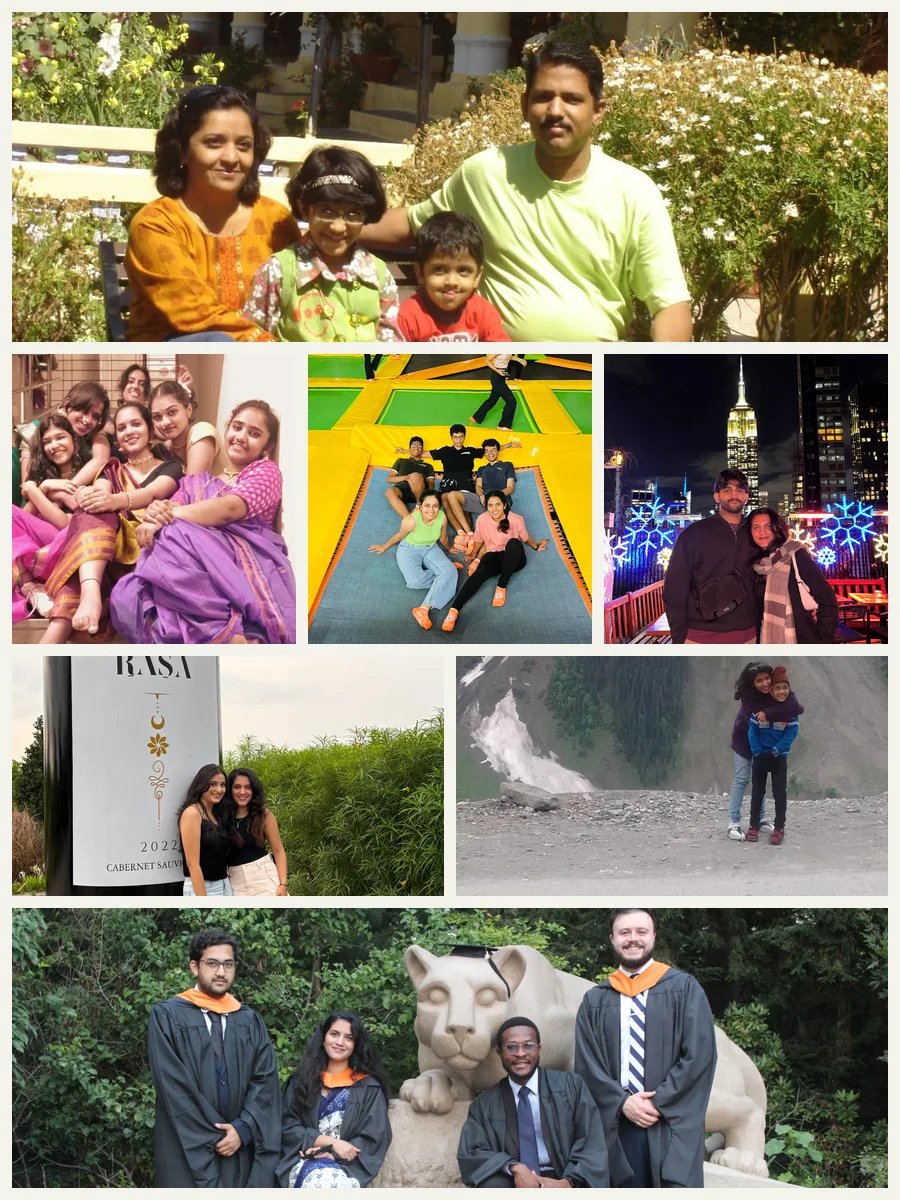
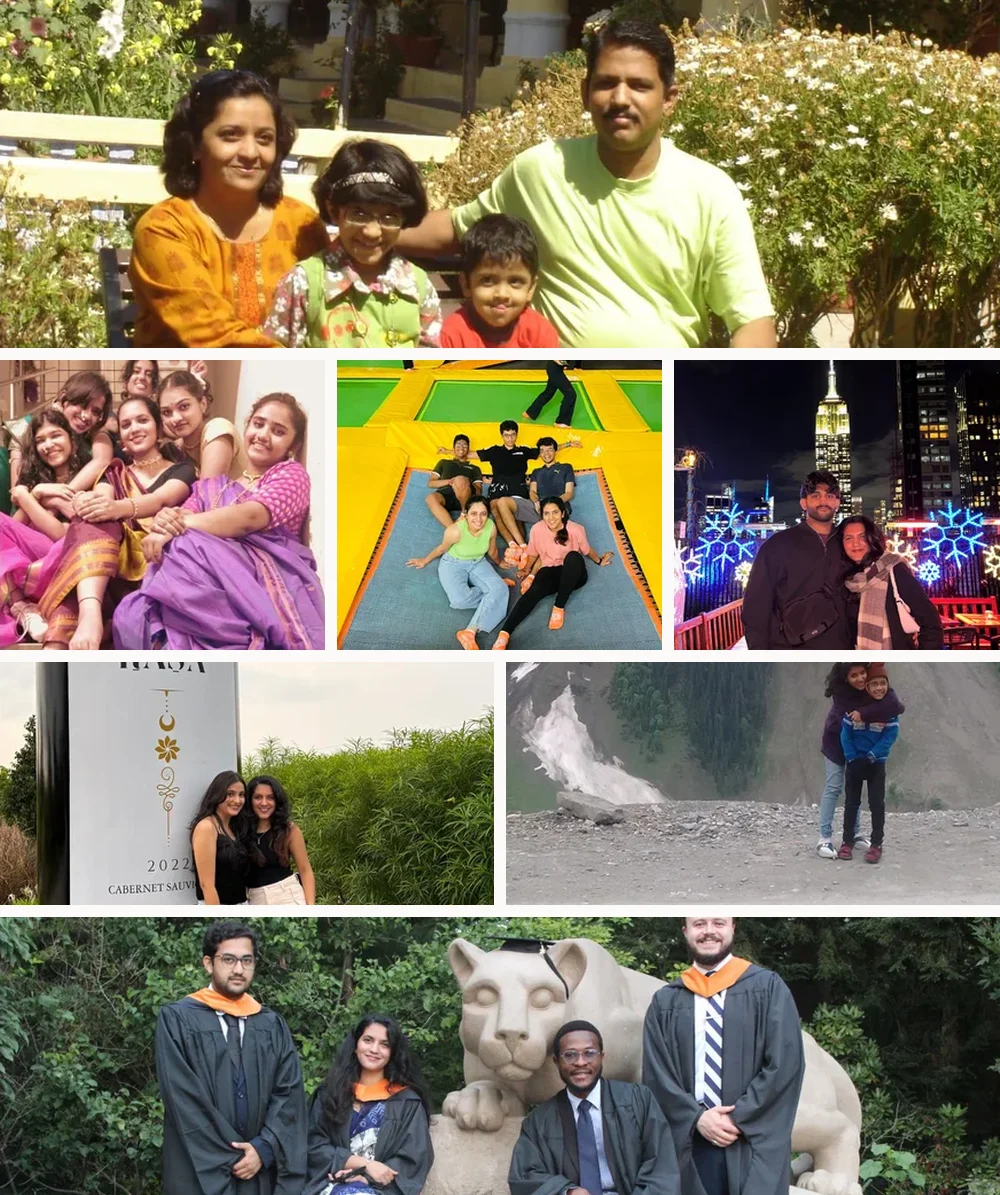
Skill bubbles: balanced arc, connector lines, consistent pills; neat village collage; zoomed-out dance photo
Claude-Session: https://claude.ai/code/session_01WcbvhFMLkJFsvgnNpnBruP

diff --git a/assets/js/main.js b/assets/js/main.js
@@ -1668,33 +1668,47 @@ $$("[data-href]").forEach((el) => {
   const roles = [...document.querySelectorAll(".roles .role")];
   if (!strip || !roles.length) return;
   const rnd = (a, b) => a + Math.random() * (b - a);
+  const NS = "http://www.w3.org/2000/svg";
   const layout = (li) => {
     const pops = [...li.querySelectorAll(".pop")];
-    pops.forEach((p) => p.style.setProperty("--fs", rnd(11, 13.5).toFixed(1) + "px"));
     const lr = li.getBoundingClientRect(), wr = li.querySelector(".rn").getBoundingClientRect();
+    const vw = document.documentElement.clientWidth;
     const cx = lr.left + lr.width / 2, cy = lr.top + lr.height / 2, half = lr.height / 2;
-    const word = { l: wr.left - cx - 6, r: wr.right - cx + 6, t: wr.top - cy - 4, b: wr.bottom - cy + 4 };
-    const placed = [];
+    const word = { l: wr.left - cx, r: wr.right - cx, t: wr.top - cy, b: wr.bottom - cy };
+    const n = pops.length, nTop = Math.ceil(n / 2), placed = [];
+    const maxW = Math.max(...pops.map((p) => p.offsetWidth + 14));
+    const spanX = Math.min(Math.max(wr.width * .62, 150), Math.max(30, (vw - 24 - maxW) / 2));
     pops.forEach((p, i) => {
-      const w = p.offsetWidth + 16, h = p.offsetHeight + 12;
-      let best = null;
-      for (let t = 0; t < 200 && !best; t++) {
-        const k = 1 + t / 70, up = i % 2 === 0;
-        const x = rnd(-(wr.width / 2 + w * .2) * k, (wr.width / 2 + w * .2) * k);
-        const y = (up ? -1 : 1) * rnd(half * .45 + h / 2, half + h / 2 + 6 + 18 * (k - 1));
-        const L = x - w / 2, R = x + w / 2, T = y - h / 2, B = y + h / 2;
-        if (cx + L < 6 || cx + R > innerWidth - 6) continue;
-        if (R > word.l && L < word.r && B > word.t && T < word.b) continue;              // keep the word readable
-        if (Math.abs(y) < half && (cx + L < lr.left - 4 || cx + R > lr.right + 4)) continue; // stay off the other roles
-        if (placed.some((q) => Math.abs(q.x - x) < (q.w + w) / 2 && Math.abs(q.y - y) < (q.h + h) / 2)) continue;
-        best = { x, y, w, h };
-      }
-      if (!best) best = { x: rnd(-40, 40), y: (i % 2 ? 1 : -1) * (half + h / 2 + 60), w, h };
-      placed.push(best);
-      p.style.setProperty("--x", best.x.toFixed(0) + "px");
-      p.style.setProperty("--y", best.y.toFixed(0) + "px");
-      p.style.setProperty("--r", rnd(-9, 9).toFixed(1) + "deg");
-      p.style.setProperty("--d", (i * .05 + rnd(0, .06)).toFixed(2) + "s");
+      const top = i < nTop, k = top ? i : i - nTop, m = top ? nTop : n - nTop;
+      const w = p.offsetWidth + 14, h = p.offsetHeight + 10;
+      // even arc: middle bubbles sit further from the strip than the outer ones
+      const u = m === 1 ? 0 : (k / (m - 1)) * 2 - 1;
+      let x = u * spanX + rnd(-8, 8);
+      let y = (top ? -1 : 1) * (half + h / 2 + 6 + (1 - u * u) * 22 + rnd(-3, 3));
+      // push outward until it doesn't touch an earlier bubble
+      for (let t = 0; t < 30 && placed.some((q) => Math.abs(q.x - x) < (q.w + w) / 2 && Math.abs(q.y - y) < (q.h + h) / 2); t++) y += top ? -10 : 10;
+      placed.push({ x, y, w, h, top });
+      p.style.setProperty("--x", x.toFixed(0) + "px");
+      p.style.setProperty("--y", y.toFixed(0) + "px");
+      p.style.setProperty("--r", rnd(-4, 4).toFixed(1) + "deg");
+      p.style.setProperty("--d", (i * .045 + .05).toFixed(2) + "s");
+    });
+    // slide the whole arc (not single bubbles) so it stays on screen
+    const minL = Math.min(...placed.map((q) => cx + q.x - q.w / 2)), maxR = Math.max(...placed.map((q) => cx + q.x + q.w / 2));
+    const shift = minL < 12 ? 12 - minL : maxR > vw - 12 ? vw - 12 - maxR : 0;
+    if (shift) placed.forEach((q, i) => { q.x += shift; pops[i].style.setProperty("--x", q.x.toFixed(0) + "px"); });
+    // connector lines from the word to each bubble
+    let svg = li.querySelector(".pop-links");
+    if (!svg) { svg = document.createElementNS(NS, "svg"); svg.setAttribute("class", "pop-links"); svg.setAttribute("aria-hidden", "true"); li.querySelector(".pops").prepend(svg); }
+    svg.innerHTML = "";
+    placed.forEach((q, i) => {
+      const sx = Math.min(word.r - 12, Math.max(word.l + 12, q.x * .55)), sy = q.top ? word.t + 4 : word.b - 4;
+      const ex = q.x, ey = q.y + (q.top ? q.h / 2 - 6 : -(q.h / 2 - 6));
+      const path = document.createElementNS(NS, "path");
+      path.setAttribute("d", `M${sx.toFixed(1)} ${sy.toFixed(1)} C${sx.toFixed(1)} ${((sy + ey) / 2).toFixed(1)} ${ex.toFixed(1)} ${((sy + ey) / 2).toFixed(1)} ${ex.toFixed(1)} ${ey.toFixed(1)}`);
+      path.setAttribute("pathLength", "1");
+      path.style.setProperty("--d", (i * .045).toFixed(2) + "s");
+      svg.appendChild(path);
     });
   };
   const set = (li) => {

diff --git a/index.html b/index.html
@@ -159,9 +159,9 @@
           <div class="stack-wrap reveal">
             <div class="stack" aria-label="Photos of Shreya. Click to shuffle." data-cursor="Shuffle">
               <figure class="polaroid"><img src="assets/img/quest-photo.webp" alt="A lit-up Ganesh pandal at night, photographed by Shreya" loading="lazy" width="1000" height="842"><figcaption>Behind my camera</figcaption></figure>
-              <figure class="polaroid"><img src="assets/img/quest-dance.webp" alt="Shreya performing Bharatanatyam on stage in a red and gold costume" loading="lazy" width="1000" height="841"><figcaption>Bharatanatyam, on stage</figcaption></figure>
+              <figure class="polaroid polaroid--fit"><img src="assets/img/quest-dance.webp" alt="Shreya performing Bharatanatyam on stage in a red and gold costume" loading="lazy" width="1000" height="841"><figcaption>Bharatanatyam, on stage</figcaption></figure>
               <figure class="polaroid"><img src="assets/img/about.webp" alt="Shreya smiling on the marble staircase of the New York Public Library" width="900" height="1200"><figcaption>Off duty, still curious</figcaption></figure>
-              <figure class="polaroid"><img src="assets/img/village.webp" alt="A collage of Shreya’s people: family on a garden bench, her dance troupe in saris, friends at a trampoline park, a rooftop night in New York, a friend at a vineyard, her brother in the mountains, and Penn State graduation at the Nittany Lion" loading="lazy" width="900" height="1200"><figcaption>my village</figcaption></figure>
+              <figure class="polaroid"><img src="assets/img/village.webp" alt="A collage of Shreya’s people: family on a garden bench, her dance troupe in saris, friends at a trampoline park, a rooftop night in New York, a friend at a vineyard, her brother in the mountains, and Penn State graduation at the Nittany Lion" loading="lazy" width="1000" height="1195"><figcaption>my village</figcaption></figure>
               <figure class="polaroid polaroid--logo"><div class="logo-story"><img src="assets/img/logo-ink.svg" alt="Shreya's logo" loading="lazy" width="256" height="256"><img class="logo-story__img" src="assets/img/logo-story.webp" alt="Story behind my logo: श्र, the first letter of my name in my mother tongue, plus H, the first letter of my last name in English" loading="lazy" width="575" height="390"></div><figcaption>my mark: श्र + H</figcaption></figure>
             </div>
             <span class="sticker sticker--violet sk-1">Bharatanatyam dancer</span>

diff --git a/assets/css/style.css b/assets/css/style.css
@@ -3337,3 +3337,17 @@ ul.work .work__link:hover .work__thumb, .work__link:hover .work__thumb { transfo
 .heat-reset[hidden] { display: none; }
 /* Roles strip: slightly faded yellow */
 .now-strip.roles { background: #fbe788 !important; }
+
+/* Skill bubbles, hi-fi pass: one size, balanced arc, connector lines, pink dot */
+.roles .pop { font-size: 13px !important; font-weight: 400; padding: 7px 13px 7px 11px; display: inline-flex; align-items: center; gap: 7px; background: var(--bg); color: #111; border: 1px solid #111; box-shadow: 2px 2px 0 #111; letter-spacing: -.005em; }
+.roles .pop::before { content: ""; width: 6px; height: 6px; border-radius: 50%; background: #ff3fa4; flex: none; }
+.roles .role.is-on .pop { animation: none; transition: transform .45s cubic-bezier(.34, 1.56, .64, 1) var(--d, 0s), opacity .15s linear var(--d, 0s); }
+.roles .pop-links { position: absolute; left: 50%; top: 50%; width: 1px; height: 1px; overflow: visible; pointer-events: none; z-index: -1; }
+.roles .pop-links path { fill: none; stroke: #111; stroke-width: 1; stroke-dasharray: 1; stroke-dashoffset: 1; opacity: .55; transition: stroke-dashoffset .2s ease-in; }
+.roles .role.is-on .pop-links path { stroke-dashoffset: 0; transition: stroke-dashoffset .4s cubic-bezier(.2, .8, .2, 1) var(--d, 0s); }
+.roles .role .rn { transition: opacity .25s, transform .3s cubic-bezier(.34, 1.56, .64, 1); }
+.roles .role.is-on .rn { transform: scale(1.04); }
+@media (prefers-reduced-motion: reduce) { .roles .pop-links path { transition: none !important; } }
+@media (max-width: 760px) { .roles .pop-links { display: none; } }
+/* Photo stack: show the whole dance photo, stage-black behind it */
+.polaroid--fit img { object-fit: contain !important; background: #0b0b0d !important; }
